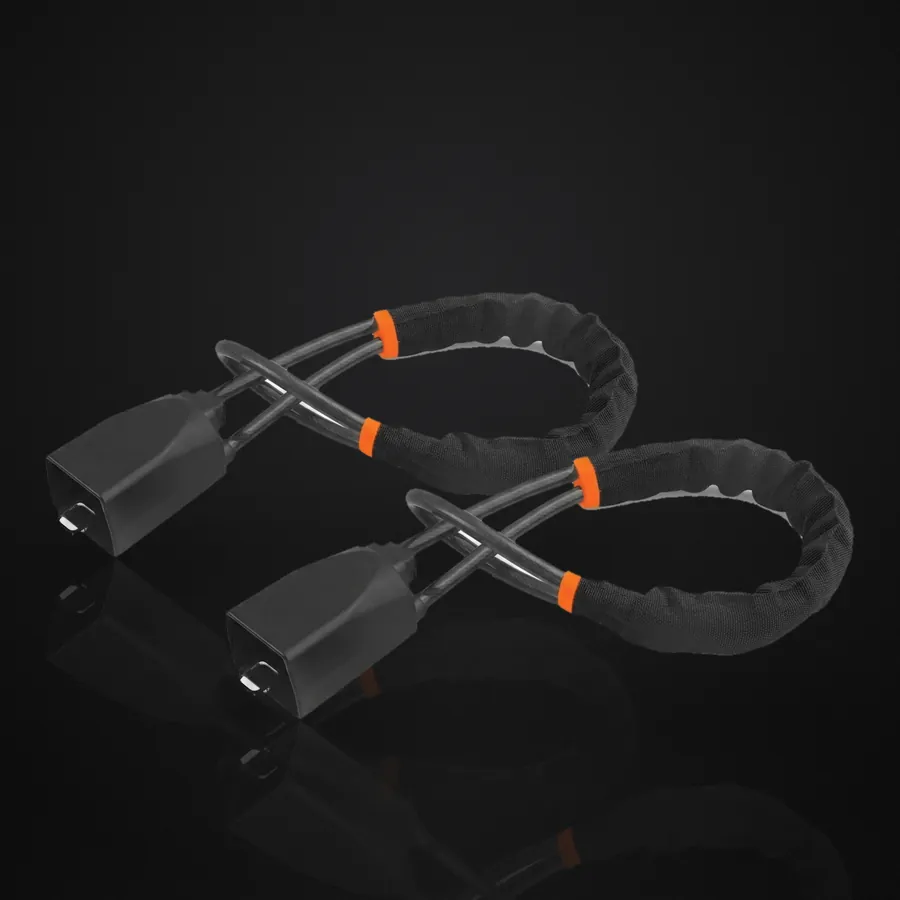
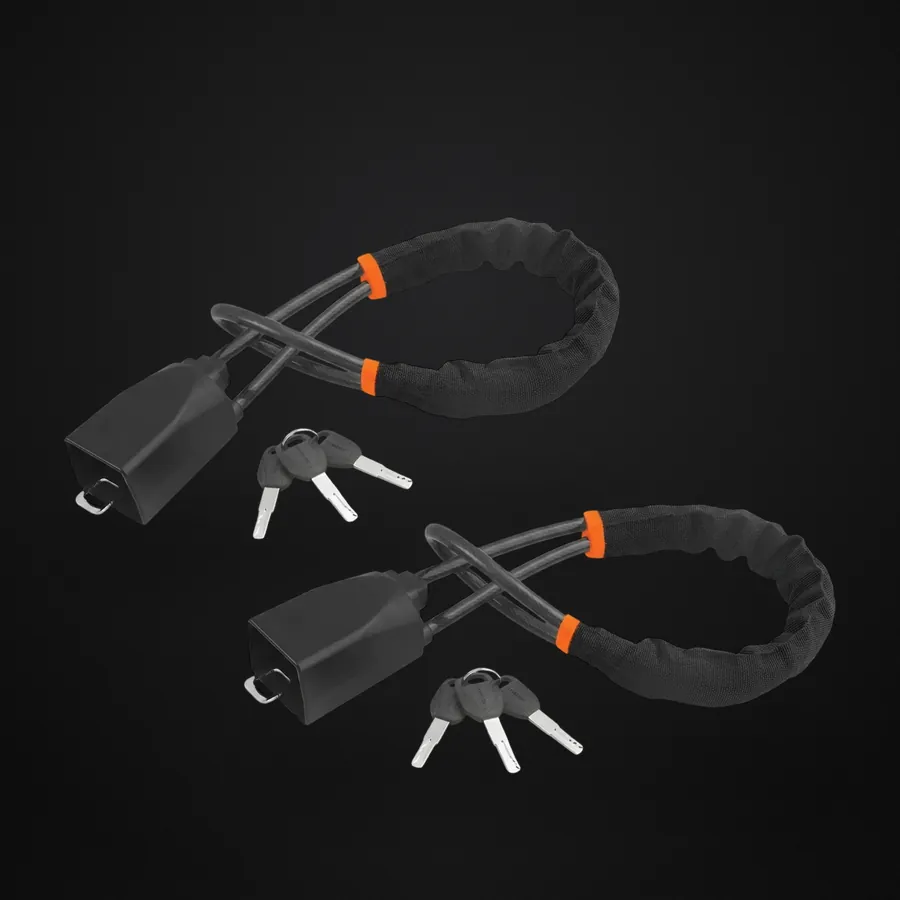
feat(trabavolante): packs con llaves totales e íconos, y qué incluye más corto
- Cada pack lista "N Trabavolantes Titan PRO™" y las llaves en total
  (3 / 6 / 9), con íconos nuevos de trabavolante y llave en ProductGlyph.
- Fotos provisorias de los packs con el recorte limpio (se ven las llaves).
- Recorte de las trabas comunes sin el contorno blanco.
- Qué incluye: título "Simple y compacto" y las instrucciones impresas en
  la caja en vez de "Manual de uso".
- Prompt para generar las fotos definitivas de los packs.

diff --git a/lib/landings/trabavolante.ts b/lib/landings/trabavolante.ts
@@ -132,7 +132,13 @@ const TRABAVOLANTE_BUNDLES: readonly Bundle[] = [
     quantity: 1,
     unitsLabel: '1 unidad',
     badge: null,
-    bonus: '+ 3 llaves incluidas',
+    bonus: '+ 3 llaves de seguridad',
+    // Lo que se ve en la card: una línea por pieza con su ícono. Las llaves
+    // van en total (3 por unidad), no "por unidad".
+    includes: [
+      { icon: 'titan', text: '1 Trabavolante Titan PRO™' },
+      { icon: 'key', text: '3 llaves de seguridad' },
+    ],
     freeShipping: true,
     recommended: false,
     fallbackPrice: 39990, // TODO PRECIO REAL
@@ -148,7 +154,13 @@ const TRABAVOLANTE_BUNDLES: readonly Bundle[] = [
     quantity: 2,
     unitsLabel: '2 unidades · 2ª al 50%',
     badge: 'MÁS ELEGIDO',
-    bonus: '+ 3 llaves por unidad',
+    bonus: '+ 6 llaves de seguridad',
+    // Lo que se ve en la card: una línea por pieza con su ícono. Las llaves
+    // van en total (3 por unidad), no "por unidad".
+    includes: [
+      { icon: 'titan', text: '2 Trabavolantes Titan PRO™' },
+      { icon: 'key', text: '6 llaves de seguridad' },
+    ],
     freeShipping: true,
     recommended: true,
     fallbackPrice: 59990, // TODO PRECIO REAL — 1,5 × el x1 (redondeado)
@@ -164,7 +176,13 @@ const TRABAVOLANTE_BUNDLES: readonly Bundle[] = [
     quantity: 3,
     unitsLabel: '3 unidades · 3ª GRATIS',
     badge: '3X2',
-    bonus: '+ 3 llaves por unidad',
+    bonus: '+ 9 llaves de seguridad',
+    // Lo que se ve en la card: una línea por pieza con su ícono. Las llaves
+    // van en total (3 por unidad), no "por unidad".
+    includes: [
+      { icon: 'titan', text: '3 Trabavolantes Titan PRO™' },
+      { icon: 'key', text: '9 llaves de seguridad' },
+    ],
     freeShipping: true,
     recommended: false,
     fallbackPrice: 79990, // TODO PRECIO REAL — 2 × el x1 (redondeado)
@@ -331,11 +349,13 @@ export const TRABAVOLANTE = {
     },
   ],
   whatsInBox: {
-    headline: 'Todo lo que trae la caja',
+    // La lista ya va bajo un "¿Qué incluye?" fijo del componente: el título no lo repite.
+    headline: 'Simple y compacto',
     lead: 'Chau al bastón de un metro.',
     body: ' El Titan PRO se enrolla y entra en la guantera, así lo usás cada vez que te bajás y no sólo cuando te acordás.',
     note: 'Sin instalación: no se atornilla ni se pega nada al auto.',
-    items: ['1 Trabavolante Titan PRO™', '3 llaves de seguridad', 'Manual de uso'],
+    // Las instrucciones vienen impresas en la caja, no en un folleto aparte.
+    items: ['1 Trabavolante Titan PRO™', '3 llaves de seguridad', 'Instrucciones impresas en la caja'],
     // La de las terminaciones (Rodrigo): habla de la funda y el volante, al
     // lado de lo que trae la caja.
     testimonial: TRABAVOLANTE_REVIEWS[2],
@@ -370,7 +390,7 @@ export const TRABAVOLANTE = {
     accent: 'más.',
     columns: [
       { name: 'Titan PRO™', image: '/trabavolante/comparativa/titan-pro.webp', width: 235, height: 420 },
-      { name: 'Trabas comunes', image: '/trabavolante/comparativa/trabas-comunes.webp', width: 339, height: 382 },
+      { name: 'Trabas comunes', image: '/trabavolante/comparativa/trabas-comunes.webp', width: 336, height: 378 },
     ],
     rows: [
       { label: 'Lo ponés en segundos', values: [true, false] },

diff --git a/components/ui/ProductGlyph.tsx b/components/ui/ProductGlyph.tsx
@@ -5,10 +5,14 @@
  *  - `glass`: el vidrio de prueba, un disco transparente.
  *  - `mount`: el soporte adhesivo, base redonda negra con la cuna en U.
  *
+ * Y los de /trabavolante:
+ *  - `titan`: el trabavolante, lazo acolchado negro con anillos naranjas y la traba.
+ *  - `key`: una llave de seguridad, cabeza negra y paleta plateada.
+ *
  * Son SVG planos de 32×32, sin imágenes. Los grises de la correa y la base
  * son claros a propósito: el negro real se perdería sobre el fondo oscuro.
  */
-export type ProductGlyphName = 'keychain' | 'glass' | 'mount';
+export type ProductGlyphName = 'keychain' | 'glass' | 'mount' | 'titan' | 'key';
 
 const RED = '#D70707';
 
@@ -60,10 +64,51 @@ function Mount() {
   );
 }
 
+function Titan() {
+  return (
+    <g>
+      {/* lazo acolchado */}
+      <path d="M11 20 C5 13, 9 4, 18 4 C27 4, 30 13, 23 18" fill="none" stroke="#52525b" strokeWidth="4.6" strokeLinecap="round" />
+      <path d="M11 20 C5 13, 9 4, 18 4 C27 4, 30 13, 23 18" fill="none" stroke="#27272a" strokeWidth="2.6" strokeLinecap="round" strokeDasharray="2 1.4" />
+      {/* anillos naranjas */}
+      <path d="M8.2 13.6l3 -1.2M22.6 16.2l2.6 1.8" stroke="#F26A1B" strokeWidth="2.4" strokeLinecap="round" />
+      {/* cables que bajan a la traba */}
+      <path d="M12 19.5l3.5 4.5M22 18.5l-3.5 5.5" stroke="#a1a1aa" strokeWidth="1.3" />
+      {/* traba (lengüeta del cinturón) */}
+      <rect x="11.5" y="22.5" width="9" height="8" rx="1.8" fill="#18181b" stroke="#71717a" strokeWidth="1" />
+      <rect x="14" y="29" width="4" height="2.4" rx="0.6" fill="#d4d4d8" />
+    </g>
+  );
+}
+
+function Key() {
+  return (
+    <g transform="rotate(-35 16 16)">
+      {/* cabeza */}
+      <rect x="4" y="10" width="11" height="12" rx="4" fill="#27272a" stroke="#71717a" strokeWidth="1.1" />
+      <circle cx="7.5" cy="16" r="1.4" fill="#0c0c0d" stroke="#a1a1aa" strokeWidth="0.8" />
+      {/* paleta */}
+      <path d="M15 14h13v4H15z" fill="#d4d4d8" />
+      <path d="M18 18v1.6M21 18v2.2M24 18v1.4" stroke="#d4d4d8" strokeWidth="1.4" />
+      <path d="M16 15.4h11" stroke="#fff" strokeOpacity="0.6" strokeWidth="0.7" />
+    </g>
+  );
+}
+
 export function ProductGlyph({ name, className }: { name: ProductGlyphName; className?: string }) {
   return (
     <svg viewBox="0 0 32 32" aria-hidden="true" className={className}>
-      {name === 'keychain' ? <Keychain /> : name === 'glass' ? <Glass /> : <Mount />}
+      {name === 'keychain' ? (
+        <Keychain />
+      ) : name === 'glass' ? (
+        <Glass />
+      ) : name === 'titan' ? (
+        <Titan />
+      ) : name === 'key' ? (
+        <Key />
+      ) : (
+        <Mount />
+      )}
     </svg>
   );
 }

diff --git a/lib/landings/types.ts b/lib/landings/types.ts
@@ -31,7 +31,7 @@ export type Bundle = {
    * Si está, `Pricing` lo muestra en lugar de `unitsLabel` + `bonus`
    * (`/llavero-rescate`); sin esto, las cards son las de siempre.
    */
-  includes?: readonly { icon: 'keychain' | 'glass' | 'mount'; text: string }[];
+  includes?: readonly { icon: 'keychain' | 'glass' | 'mount' | 'titan' | 'key'; text: string }[];
   freeShipping: boolean;
   recommended: boolean;
   fallbackPrice: number;

diff --git a/docs/superpowers/specs/trabavolante-assets.md b/docs/superpowers/specs/trabavolante-assets.md
@@ -145,3 +145,11 @@ de ahí `bundles/TrabavolanteX1/X2/X3.webp` (900², con 1/2/3 unidades):
    > Macro of a thick soft black padded sleeve resting on a stitched leather steering wheel, showing no marks on the leather, shallow depth of field, warm soft light, vertical 2:3, photorealistic.
 6. `llaves` — 3 LLAVES:
    > Three identical silver security keys on an open palm, next to a matte black lock body with no logo, dark background, soft top light with a red (#D70707) rim, vertical 2:3, photorealistic, no text.
+
+**Packs** (`bundles/TrabavolanteX1/X2/X3.webp`, 900², hoy provisorios armados con
+el recorte): editar `queincluye (2).jpeg` en Gemini/ChatGPT, adjuntando también
+el recorte del producto, con este prompt (cambiando la cantidad):
+
+> Using the first image as the scene and style reference (same matte black CARMANIA box with its logo, same dark slate surface and lighting), create a square product photo of a bundle: the CARMANIA box standing slightly behind, and in front of it TWO identical steering wheel locks like the second image (black padded cable loop with two orange rings, black seatbelt-tongue lock body), arranged neatly side by side, with SIX silver keys with black heads laid in front in two groups of three. Photorealistic, premium, no text other than the logo on the box, no extra objects.
+
+Para el x1: "ONE … THREE silver keys"; para el x3: "THREE … NINE silver keys in three groups of three".
